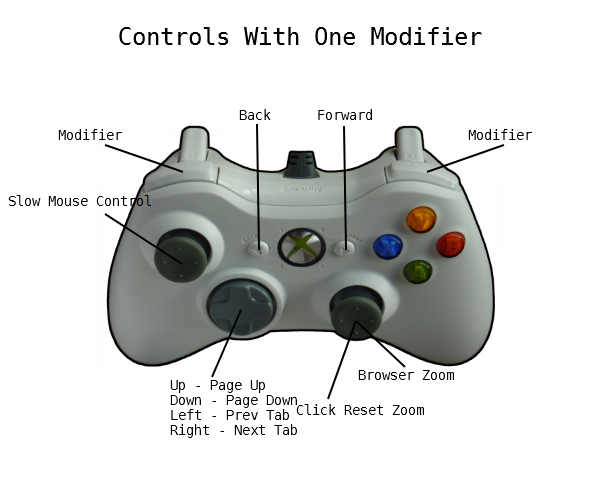
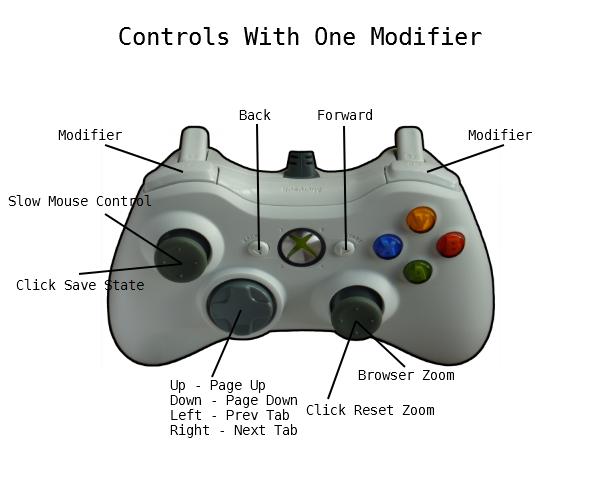
Move enable/ disable to left stick
Left stick button is less likely to interfere with games.

Changed region(s): [[0.12, 0.5312, 0.3, 0.625], [0.48, 0.8438, 0.72, 0.875], [0.03, 0.5625, 0.09, 0.625]]

diff --git a/README.md b/README.md
@@ -14,7 +14,7 @@ Enhancements in fork
 * One Handed Mode (Enable with Y)
 * Fullscreen LB+RB+Up
 * Holding dpad repeats cursor presses
-* Show icons when enabling / disabling LB+RB+B
+* Show icons when enabling / disabling LB+RB+Left Stick
 * Disable Virtual keyboard/ Toggle Emulator/ Toggle Triggers
 * Page up / down with LB|RB + up / down
 * Previous / Next tab with LB|RB + left / right
